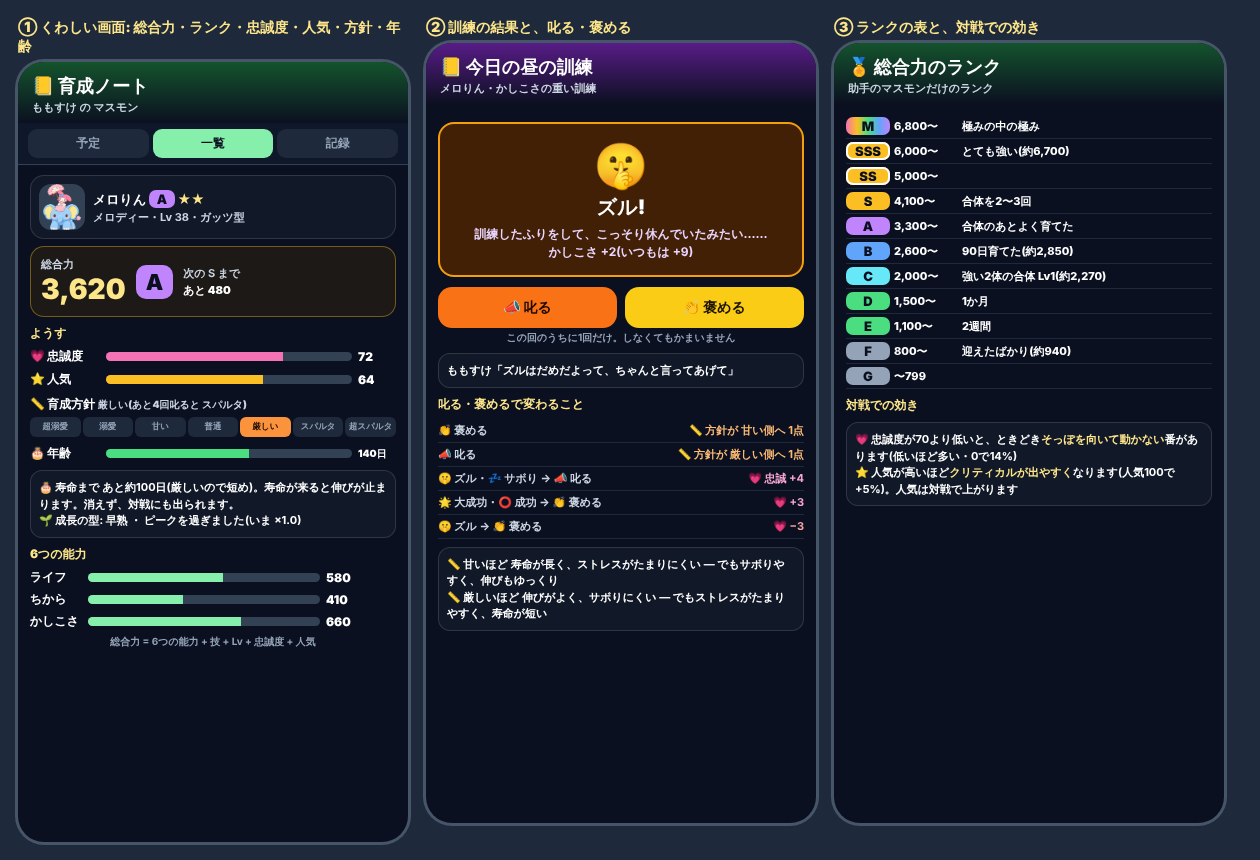
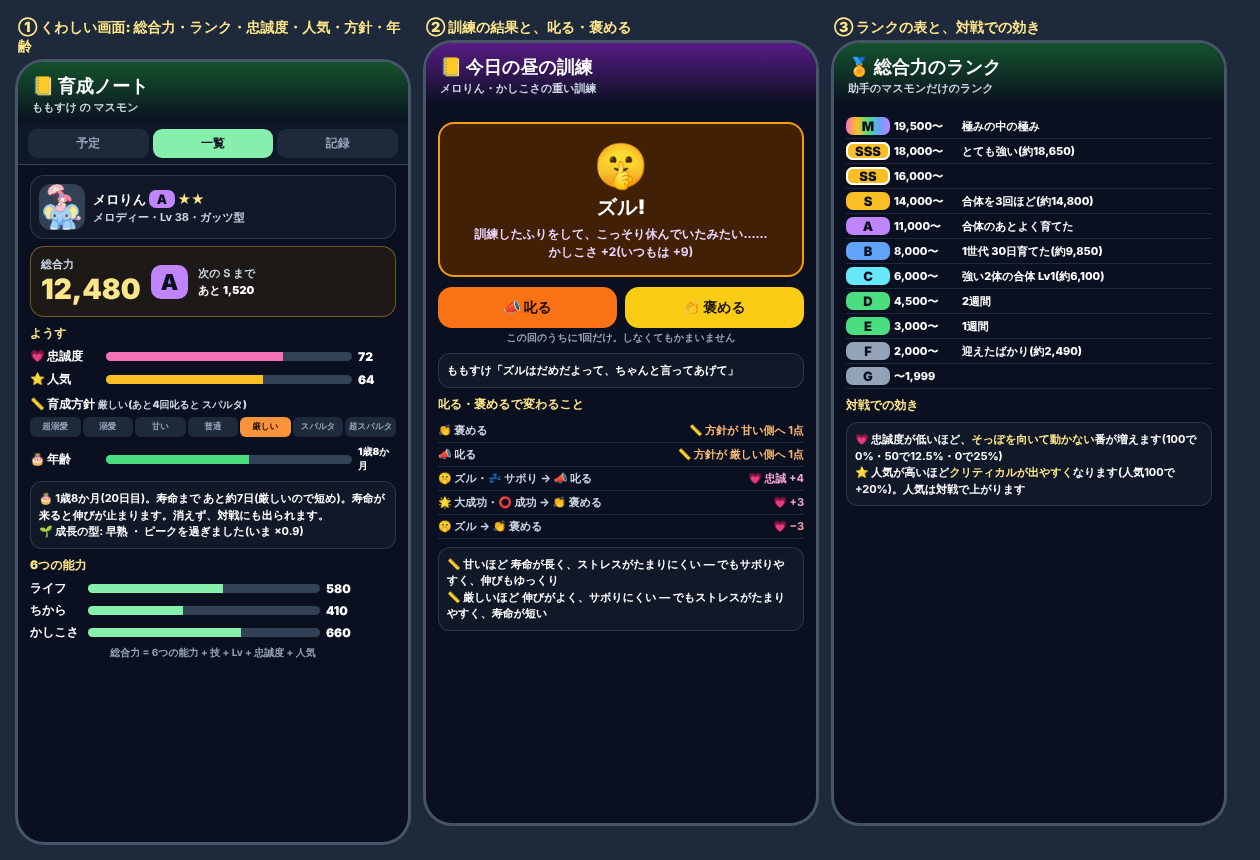
総合力・忠誠度・寿命などの案 第3版(S≈14000・M≈20000・寿命約30日・育ちの速さの見直し)と止め絵
Claude-Session: https://claude.ai/code/session_0113GBaCDsjiy9piuk6yeu9u

diff --git a/docs/progress/assistant-peer/masmon-plan/mock-power.html b/docs/progress/assistant-peer/masmon-plan/mock-power.html
@@ -62,14 +62,14 @@
 <div class="tabs"><div class="tab">予定</div><div class="tab on">一覧</div><div class="tab">記録</div></div>
 <div class="bd">
 <div class="mon"><img class="th" src="../../../../monster-hero/images/monster-thumbs/melody.png"><div style="flex:1"><div class="nm">メロりん <span class="rk rA">A</span> <span style="color:#fde68a">★★</span></div><div class="mi">メロディー・Lv 38・ガッツ型</div></div></div>
-<div class="big"><div><div style="font-size:11px;font-weight:900;color:#cbd5e1">総合力</div><div class="n">3,620</div></div><span class="rk rA">A</span><div style="font-size:11px;font-weight:700;color:#cbd5e1;line-height:1.5">次の S まで<br><b style="color:#fff">あと 480</b></div></div>
+<div class="big"><div><div style="font-size:11px;font-weight:900;color:#cbd5e1">総合力</div><div class="n">12,480</div></div><span class="rk rA">A</span><div style="font-size:11px;font-weight:700;color:#cbd5e1;line-height:1.5">次の S まで<br><b style="color:#fff">あと 1,520</b></div></div>
 <div class="sec">ようす</div>
 <div class="meter"><span>💗 忠誠度</span><div class="bar lo"><i style="width:72%"></i></div><span>72</span></div>
 <div class="meter"><span>⭐ 人気</span><div class="bar po"><i style="width:64%"></i></div><span>64</span></div>
 <div style="font-size:12px;font-weight:900;margin-top:8px">📏 育成方針 <small style="color:#cbd5e1">厳しい(あと4回叱ると スパルタ)</small></div>
 <div class="pol"><span>超溺愛</span><span>溺愛</span><span>甘い</span><span>普通</span><span class="on">厳しい</span><span>スパルタ</span><span>超スパルタ</span></div>
-<div class="meter" style="margin-top:8px"><span>🎂 年齢</span><div class="bar ag"><i style="width:58%"></i></div><span style="font-size:10px">140日</span></div>
-<div class="box">🎂 寿命まで あと約100日(厳しいので短め)。寿命が来ると伸びが止まります。消えず、対戦にも出られます。<br>🌱 成長の型: 早熟 ・ ピークを過ぎました(いま ×1.0)</div>
+<div class="meter" style="margin-top:8px"><span>🎂 年齢</span><div class="bar ag"><i style="width:58%"></i></div><span style="font-size:10px">1歳8か月</span></div>
+<div class="box">🎂 1歳8か月(20日目)。寿命まで あと約7日(厳しいので短め)。寿命が来ると伸びが止まります。消えず、対戦にも出られます。<br>🌱 成長の型: 早熟 ・ ピークを過ぎました(いま ×0.9)</div>
 <div class="sec">6つの能力</div>
 <div class="st"><span>ライフ</span><div class="bar"><i style="width:58%"></i></div><span>580</span></div>
 <div class="st"><span>ちから</span><div class="bar"><i style="width:41%"></i></div><span>410</span></div>
@@ -96,19 +96,19 @@
 <div><p class="cap">③ ランクの表と、対戦での効き</p><div class="ph">
 <div class="hd"><h2>🏅 総合力のランク</h2><div class="s">助手のマスモンだけのランク</div></div>
 <div class="bd">
-<div class="rt"><span class="rk rM">M</span><span>6,800〜</span><span>極みの中の極み</span></div>
-<div class="rt"><span class="rk rSSS">SSS</span><span>6,000〜</span><span>とても強い(約6,700)</span></div>
-<div class="rt"><span class="rk rSS">SS</span><span>5,000〜</span><span></span></div>
-<div class="rt"><span class="rk rS">S</span><span>4,100〜</span><span>合体を2〜3回</span></div>
-<div class="rt"><span class="rk rA">A</span><span>3,300〜</span><span>合体のあとよく育てた</span></div>
-<div class="rt"><span class="rk rB">B</span><span>2,600〜</span><span>90日育てた(約2,850)</span></div>
-<div class="rt"><span class="rk rC">C</span><span>2,000〜</span><span>強い2体の合体 Lv1(約2,270)</span></div>
-<div class="rt"><span class="rk rD">D</span><span>1,500〜</span><span>1か月</span></div>
-<div class="rt"><span class="rk rD">E</span><span>1,100〜</span><span>2週間</span></div>
-<div class="rt"><span class="rk rF">F</span><span>800〜</span><span>迎えたばかり(約940)</span></div>
-<div class="rt"><span class="rk rG">G</span><span>〜799</span><span></span></div>
+<div class="rt"><span class="rk rM">M</span><span>19,500〜</span><span>極みの中の極み</span></div>
+<div class="rt"><span class="rk rSSS">SSS</span><span>18,000〜</span><span>とても強い(約18,650)</span></div>
+<div class="rt"><span class="rk rSS">SS</span><span>16,000〜</span><span></span></div>
+<div class="rt"><span class="rk rS">S</span><span>14,000〜</span><span>合体を3回ほど(約14,800)</span></div>
+<div class="rt"><span class="rk rA">A</span><span>11,000〜</span><span>合体のあとよく育てた</span></div>
+<div class="rt"><span class="rk rB">B</span><span>8,000〜</span><span>1世代 30日育てた(約9,850)</span></div>
+<div class="rt"><span class="rk rC">C</span><span>6,000〜</span><span>強い2体の合体 Lv1(約6,100)</span></div>
+<div class="rt"><span class="rk rD">D</span><span>4,500〜</span><span>2週間</span></div>
+<div class="rt"><span class="rk rD">E</span><span>3,000〜</span><span>1週間</span></div>
+<div class="rt"><span class="rk rF">F</span><span>2,000〜</span><span>迎えたばかり(約2,490)</span></div>
+<div class="rt"><span class="rk rG">G</span><span>〜1,999</span><span></span></div>
 <div class="sec">対戦での効き</div>
-<div class="box">💗 忠誠度が70より低いと、ときどき<b style="color:#fde68a">そっぽを向いて動かない</b>番があります(低いほど多い・0で14%)<br>⭐ 人気が高いほど<b style="color:#fde68a">クリティカルが出やすく</b>なります(人気100で +5%)。人気は対戦で上がります</div>
+<div class="box">💗 忠誠度が低いほど、<b style="color:#fde68a">そっぽを向いて動かない</b>番が増えます(100で0%・50で12.5%・0で25%)<br>⭐ 人気が高いほど<b style="color:#fde68a">クリティカルが出やすく</b>なります(人気100で +20%)。人気は対戦で上がります</div>
 </div></div></div>
 
 </div></body></html>

diff --git a/docs/progress/assistant-peer/masmon-plan/POWER.md b/docs/progress/assistant-peer/masmon-plan/POWER.md
@@ -1,164 +1,173 @@
-# 助手のマスモンの「総合力・ランク」「忠誠度・人気」「育成方針」「年齢・寿命・成長の型」と、トレーニングの結果・叱る・褒める(案・第2版)
+# 助手のマスモンの「総合力・ランク」「忠誠度・人気」「育成方針」「年齢・寿命・成長の型」と、トレーニングの結果・叱る・褒める(案・第3版)
 
-キズナ 2026-11-12。第1版(おすすめ案)への社長の答え(窓口経由)を入れて作り直した。作る前にもう一度窓口へ見せる。
+キズナ 2026-11-12。第2版への社長の答え(窓口経由・台帳)を入れた。**作る前にもう一度窓口へ見せる**。
 
 - 参考はモンスターファームシリーズ・LINEモンスターファームの**仕組みの考え方だけ**(画面・用語・絵は写さない)
 - 対象は**助手のマスモンだけ**。プレイヤーのモンスターの総合力・強さは変えない
-- 止め絵: `mock-power.png`(元は `mock-power.html`・スマホ縦3画面: くわしい画面/訓練の結果と叱る・褒める/ランクの表と対戦での効き)
+- 止め絵: `mock-power.png`(くわしい画面/訓練の結果と叱る・褒める/ランクの表と対戦での効き)・`mock-growth.png`(成長の型の曲線・寿命30日の目盛り)
 
-社長の答え(第1版から変わった所):
-1. 総合力に**忠誠度と人気も入れる**
-2. ランクは **G・F・E・D・C・B・A・S・SS・SSS・M の11段**(M が最上位)
-3. 忠誠度が低いと、**対戦でたまに行動できないターン**が出る(低いほど起きやすい)。サボり・家出・ズル・大成功にも第1版どおり効く
-4. 人気は**バトル(対戦)で上がる**。高いと**クリティカル率が上がる**
-5. 育成方針は7段「超溺愛・溺愛・甘い・普通・厳しい・スパルタ・超スパルタ」(型とは別)。褒める → 甘い側、叱る → 厳しい側。甘いほど寿命が長くストレスをためにくいがサボりやすく効率が悪い。厳しい側はその逆
-6. **年齢と寿命を入れる**。年齢で訓練の効率が変わり、ピークの時期はかなり上がる。マスモンごとに成長の型(超早熟・早熟・普通・晩成・超晩成・持続)があり、型でピークの時期と長さが決まる(追加の答え)。寿命の長さは育成方針で変わる。寿命が来たら**伸びが止まるだけ**(消えない・冬眠にもならない・対戦に出られる)。合体した子は年齢0から
+第2版から変わった所(社長の答え):
+1. 総合力の数字を大きく: **S ≈ 14,000・M ≈ 20,000**(LINEモンスターファームの感じ)
+2. 忠誠度の「動かない番」: **忠誠100で0% 〜 忠誠0で約25%**(全域でなめらかに)
+3. 人気100でクリティカル率 **+20%**
+4. 寿命: **普通の方針で約30日**(超溺愛 約40 〜 超スパルタ 約20日)。ピークの日数も一緒に縮む
+5. 年齢は **1日 = 1か月** で「◯歳◯か月」(30日で2歳6か月)。冬眠中は進まない
+6. 成長の型: 1体ずつ迎えたときに決まる(種類ごとに出やすい型)・合体では主の型を受け継ぐ
+7. ピークの高さ: ×1.5〜1.7(持続は ×1.15 がほぼずっと)
+8. 寿命が30日になるので、**育ちの速さ(1日の伸び・育成ノートの段の日数)を見直す**(→ 7章)
 
 ## 1. 総合力
 
 ```
-総合力 = 6能力の合計 + 技ごとに(20 + 熟練 ÷ 5) + Lv × 3 + 忠誠度 × 3 + 人気 × 3
+総合力 = 6能力の合計 × 2.5 + 技ごとに(100 + 熟練) + Lv × 15 + 忠誠度 × 10 + 人気 × 10
 ```
 
 | もと | はば | 最大 |
 | --- | --- | --- |
-| 6能力の合計 | 300〜5994 | 5994 |
-| 技(8つまで) | 1つ 20〜40 | 320 |
-| Lv | ×3 | 297 |
-| 忠誠度(0〜100) | ×3 | 300 |
-| 人気(0〜100) | ×3 | 300 |
-| **合計** | | **7211** |
+| 6能力の合計 × 2.5 | 750〜14,985 | 14,985 |
+| 技(8つまで)| 1つ 100〜200 | 1,600 |
+| Lv × 15 | | 1,485 |
+| 忠誠度(0〜100)× 10 | | 1,000 |
+| 人気(0〜100)× 10 | | 1,000 |
+| **合計** | | **20,070** |
 
+- 6能力が全体の4分の3。技・Lv・忠誠度・人気は合わせて4分の1(育て方・関わり方で差がつく分)
 - 保存しない(毎回その場で出す)。古い形の子(6能力が無い子)は「—」
-- 出す所: 育成ノートの一覧(名前の横にランクの字)・くわしい画面(大きく)・冬眠の一覧・合体の見通し(前 → 後)・フレンドが見る形
 
 ## 2. ランク(11段)
 
 | ランク | 総合力 | ここに来る子(目安) |
 | --- | --- | --- |
-| G | 〜799 | |
-| F | 800〜 | **モッチー Lv1 を迎えたばかり: 約 940**(6能力 750・技1つ 20・Lv 3・忠誠50 → 150・人気0) |
-| E | 1100〜 | 2週間ほど育てた |
-| D | 1500〜 | 1か月ほど育てた |
-| C | 2000〜 | **強い2体の合体の Lv1: 約 2,270**(6能力 約1,900・技2つ・忠誠72・人気32) |
-| B | 2600〜 | **90日育てた子: 約 2,850**(6能力 約2,300・技4つ・Lv30・忠誠70・人気40) |
-| A | 3300〜 | 合体1回のあと、よく育てた |
-| S | 4100〜 | 合体を2〜3回重ねた |
-| SS | 5000〜 | |
-| SSS | 6000〜 | **とても強い子: 約 6,700**(6能力 約5,500・技8つ熟練100・Lv99・忠誠100・人気100) |
-| M | 6800〜 | 6能力がほぼ極み(合計5,600以上)+ 忠誠・人気ともに高い。全部最大で 7,211 |
+| G | 〜1,999 | |
+| F | 2,000〜 | **モッチー Lv1 を迎えたばかり: 約 2,490**(6能力 750・技1つ・忠誠50・人気0) |
+| E | 3,000〜 | 1週間ほど育てた |
+| D | 4,500〜 | 2週間ほど |
+| C | 6,000〜 | **強い2体の合体の Lv1: 約 6,100**(6能力 約1,900・技2つ・忠誠72・人気32) |
+| B | 8,000〜 | **1世代(30日)しっかり育てた子: 約 9,850**(6能力 約3,050・技4つ・Lv35・忠誠70・人気40) |
+| A | 11,000〜 | 合体1〜2回のあと、よく育てた |
+| S | 14,000〜 | **合体を3回ほど重ねて育てた子: 約 14,800**(6能力 約4,600・技6つ・Lv45・忠誠85・人気70) |
+| SS | 16,000〜 | |
+| SSS | 18,000〜 | **とても強い子: 約 18,650**(6能力 約5,600・技8つ熟練100・Lv70・忠誠100・人気100) |
+| M | 19,500〜 | 6能力がほぼ極み+技・忠誠・人気もほぼ最大(全部最大で 20,070) |
 
 - 段の色: G・F 灰 / E・D 緑 / C 水色 / B 青 / A 紫 / S 金 / SS・SSS 金の枠 / M 虹の枠
-- 合体の見通しに「総合力 3,420(A)→ 2,270(C)・Lv1」と、寿命までの見込みを並べる
+- S まではだいたい **3〜4世代(3〜4か月)**、M は合体を重ね、ピークをうまく使い、忠誠と人気も上げきった子だけ
 
 ## 3. 忠誠度(0〜100・はじめ50)
 
 上がり下がりは第1版のまま(合う叱る/褒めるで上がる・ズルを褒める/成功を叱る/家出で下がる・何も関わらない日が7日続くと −1/日)。
 
-効くもの:
-- **対戦で行動できないターン**(新): 忠誠度70未満の子は、自分の番ごとに **(70 − 忠誠度) × 0.2%** で「そっぽを向いて動かない」(何もせずガッツだけたまる)。忠誠50で 4%・30で 8%・0で 14%。70以上は起きない
-- サボり・家出・ズル・大成功(第1版どおり): サボり・家出は今の式 ×(1.5 − 忠誠 ÷ 100)/ズルは忠誠50未満で (50 − 忠誠) ÷ 5 %(最大10%)/忠誠80以上で大成功 +3%
+- **対戦で動かない番**: 自分の番ごとに **(100 − 忠誠度) × 0.25%** で「そっぽを向いて動かない」(何もせずガッツだけたまる)。忠誠100で0%・80で5%・50で12.5%・0で25%
+- サボり・家出: 今の式 ×(1.5 − 忠誠 ÷ 100)/ズル: 忠誠50未満で (50 − 忠誠) ÷ 5 %(最大10%)/忠誠80以上で大成功 +3%
 
 ## 4. 人気(0〜100・はじめ0)
 
-- **上がる(バトルだけ)**: フレンド対戦で勝つ +2・負けても +0.5/助手どうしの対戦で勝つ +1・負け +0.2/修行の練習試合(👀)で勝つ +0.2
-- 下がる: 14日、どの対戦にも出ないと 1日 −1(0まで)
-- **効くもの**: 対戦の**クリティカル率 + 人気 ÷ 20 %**(人気100で +5%。技ごとの率に足す・技の上限30%は今のまま)/名前の横の印 ★(30)★★(60)★★★(90)
+- 上がる(対戦だけ): フレンド対戦で勝つ +2・負け +0.5/助手どうしの対戦で勝つ +1・負け +0.2/修行の練習試合(👀)で勝つ +0.2
+- 下がる: 7日、どの対戦にも出ないと 1日 −1(寿命が30日になったので14日→7日)
+- **クリティカル率 + 人気 ÷ 5 %**(人気100で +20%)。技ごとの率に足す。上限は「技の上限30% + 人気の分」(最大50%)
+- 名前の横の印 ★(30)★★(60)★★★(90)
 
 ## 5. 育成方針(7段・型とは別)
 
 | 方針 | 寿命 | ストレスのたまり | 訓練の伸び | サボりの起きやすさ |
 | --- | --- | --- | --- | --- |
-| 超溺愛 | 360日 | ×0.6 | ×0.80 | ×2.0 |
-| 溺愛 | 330日 | ×0.75 | ×0.87 | ×1.6 |
-| 甘い | 300日 | ×0.9 | ×0.94 | ×1.3 |
-| **普通**(はじめ) | 270日 | ×1.0 | ×1.00 | ×1.0 |
-| 厳しい | 240日 | ×1.15 | ×1.06 | ×0.8 |
-| スパルタ | 210日 | ×1.3 | ×1.12 | ×0.6 |
-| 超スパルタ | 180日 | ×1.5 | ×1.18 | ×0.4 |
+| 超溺愛 | 40日(3歳4か月) | ×0.6 | ×0.80 | ×2.0 |
+| 溺愛 | 37日 | ×0.75 | ×0.87 | ×1.6 |
+| 甘い | 33日 | ×0.9 | ×0.94 | ×1.3 |
+| **普通**(はじめ) | **30日(2歳6か月)** | ×1.0 | ×1.00 | ×1.0 |
+| 厳しい | 27日 | ×1.15 | ×1.06 | ×0.8 |
+| スパルタ | 23日 | ×1.3 | ×1.12 | ×0.6 |
+| 超スパルタ | 20日(1歳8か月) | ×1.5 | ×1.18 | ×0.4 |
 
-- 動き方: 褒めるごとに甘い側へ1点、叱るごとに厳しい側へ1点。**10点たまると1段動く**(逆へ押すと点が戻る)。くわしい画面に「普通 ←●○○○○→ 厳しい(あと4回で厳しい)」と出す
-- 合う・合わないに関係なく方針は動く(叱るのが正しい場面でも、叱り続ければ厳しい側へ寄る)。忠誠度は第1版どおり、合う方を選ぶと上がる
-- 叱りすぎ(1日3回以上)のストレス +5 は第1版どおり
-- 合体した子: 方針は主のまま(点は0から)
+- 褒めるごとに甘い側へ1点、叱るごとに厳しい側へ1点。**10点たまると1段動く**(逆へ押すと点が戻る)
+- 叱りすぎ(1日3回以上)はストレス +5。合体した子は主の段(点は0から)
 
-## 6. 年齢と寿命
+## 6. 年齢・寿命・成長の型
 
 ```
-年齢 = 育てた日数(その子が来てから。冬眠中は進まない)。寿命 = 育成方針の表の日数
-寿命の数え方: 毎日、今の方針の「1日ぶん」を足す(寿命360日の方針なら 1/360)。合計が1になったら寿命
+年齢 = 育てた日数(冬眠中は進まない)。1日 = 1か月 として「◯歳◯か月」で見せる(30日 → 2歳6か月)
+寿命の進み = 毎日、今の方針の「1日ぶん」を足す(普通なら 1/30)。合計が1になったら寿命
 ```
 
-- 方針を途中で変えても、それまでの分はそのまま(甘くすれば残りが延び、厳しくすれば縮む)
-- **寿命が来たら、伸びが止まるだけ**: 訓練・修行で6能力と技の熟練が上がらなくなる。消えない・冬眠にもならない・対戦には今のまま出られる・眠らせる/起こす/合体の素材にも使える
-- 寿命が近い(残り30日)と、くわしい画面とおしゃべりで助手が知らせる(「そろそろ伸びが止まりそう。合体も考えてみる?」)
-- **合体した子は年齢0・寿命の数えも0から**(合体のやりがい: 伸びが止まった子を、強い初期値から育て直す)
-- 前からいる子: 年齢は「育成が始まった日」から数えるが、**公開の日を0日として数え始める**(公開した日に寿命が来ている子が出ないように)
+- 方針を途中で変えても、それまでの進みはそのまま(甘くすれば残りが延び、厳しくすれば縮む)
+- **寿命が来たら伸びが止まるだけ**: 訓練・修行で6能力と技の熟練が上がらない。消えない・冬眠にもならない・対戦に出られる・眠らせる/起こす/合体の素材にも使える
+- 寿命の残り5日で、くわしい画面とおしゃべりで助手が知らせる(「そろそろ伸びが止まりそう。合体も考えてみる?」)
+- 合体した子は年齢0・寿命の進みも0から(もう一度ピークを迎えられる)
+- 前からいる子: 公開の日を0日として数え始める(公開した日に寿命が来ている子が出ないように)
 
-### 成長の型と、年齢でのトレーニング効率(「育ち盛り」をこれに置きかえる・窓口経由の社長の追加)
+### 成長の型(決まった: 1体ずつ迎えたときに決まる・種類ごとに出やすい型・合体では主の型を受け継ぐ)
 
-マスモンごとに**成長の型**があり、年齢で訓練・修行の伸び(効率)が変わる。**ピークの時期は伸びがかなり上がる**。
-年齢は「寿命のうち何割まで来たか」で数える(育成方針で寿命が延び縮みすると、ピークの日数も一緒に延び縮みする)。
+年齢は「寿命のうち何割まで来たか」で数える。ピークの高さは決まった表のまま(×1.5〜1.7・持続は ×1.15)。
 
-| 型 | 0〜1割 | 1〜2 | 2〜3 | 3〜4 | 4〜5 | 5〜6 | 6〜7 | 7〜8 | 8〜9 | 9〜10割 | ピーク(普通の方針・寿命270日で) |
+| 型 | 0〜1割 | 1〜2 | 2〜3 | 3〜4 | 4〜5 | 5〜6 | 6〜7 | 7〜8 | 8〜9 | 9〜10割 | ピーク(普通の方針・寿命30日) |
 | --- | --- | --- | --- | --- | --- | --- | --- | --- | --- | --- | --- |
-| 超早熟 | ×1.3 | **×1.7** | **×1.7** | ×1.4 | ×1.1 | ×0.9 | ×0.8 | ×0.7 | ×0.7 | ×0.6 | 27〜81日・高くて短い |
-| 早熟 | ×1.1 | ×1.4 | **×1.6** | **×1.6** | ×1.3 | ×1.0 | ×0.9 | ×0.8 | ×0.7 | ×0.6 | 54〜108日 |
-| 普通 | ×0.9 | ×1.0 | ×1.2 | ×1.4 | **×1.5** | ×1.4 | ×1.2 | ×1.0 | ×0.8 | ×0.7 | 108〜162日 |
-| 晩成 | ×0.7 | ×0.8 | ×0.9 | ×1.0 | ×1.2 | ×1.4 | **×1.5** | **×1.5** | ×1.2 | ×0.9 | 162〜216日 |
-| 超晩成 | ×0.7 | ×0.8 | ×0.8 | ×0.9 | ×1.0 | ×1.1 | ×1.3 | ×1.5 | **×1.6** | ×1.4 | 216〜243日・寿命の直前 |
-| 持続 | ×1.0 | ×1.1 | ×1.15 | ×1.15 | ×1.15 | ×1.15 | ×1.15 | ×1.15 | ×1.1 | ×1.0 | ピークは低いがずっと続く |
+| 超早熟 | ×1.3 | **×1.7** | **×1.7** | ×1.4 | ×1.1 | ×0.9 | ×0.8 | ×0.7 | ×0.7 | ×0.6 | 4〜9日目(0歳3か月〜0歳9か月) |
+| 早熟 | ×1.1 | ×1.4 | **×1.6** | **×1.6** | ×1.3 | ×1.0 | ×0.9 | ×0.8 | ×0.7 | ×0.6 | 7〜12日目 |
+| 普通 | ×0.9 | ×1.0 | ×1.2 | ×1.4 | **×1.5** | ×1.4 | ×1.2 | ×1.0 | ×0.8 | ×0.7 | 13〜15日目(1歳前後) |
+| 晩成 | ×0.7 | ×0.8 | ×0.9 | ×1.0 | ×1.2 | ×1.4 | **×1.5** | **×1.5** | ×1.2 | ×0.9 | 19〜24日目 |
+| 超晩成 | ×0.7 | ×0.8 | ×0.8 | ×0.9 | ×1.0 | ×1.1 | ×1.3 | ×1.5 | **×1.6** | ×1.4 | 25〜27日目(寿命の直前) |
+| 持続 | ×1.0 | ×1.1 | ×1.15 | ×1.15 | ×1.15 | ×1.15 | ×1.15 | ×1.15 | ×1.1 | ×1.0 | ほぼずっと ×1.15 |
 
-- 絵: `mock-growth.png`(型ごとの曲線・横が寿命の割合)
-- どの型も、寿命の全部を通した伸びの合計はほぼ同じ(平均 ×1.1)。**ちがうのは「いつ伸びるか」**だけ。早熟は早くピークが来て早く合体へ回せる、晩成は長く付き合うほど報われる
-- 掛け算は、育成方針の伸び・忠誠度の結果などとかけ合わせる。寿命を過ぎたら伸びは止まる(×0)
-- **寿命とのつながり**: 寿命は表の右端(10割)。超晩成はピークのすぐあとに寿命が来る/超早熟はピークのあと長い「落ち着き」の期間がある。甘い方針で寿命を延ばすと、ピークの日数も長くなる(ただし方針の伸び ×0.94 などがかかる)
-- **合体とのつながり**: 合体した子は年齢0から → **もう一度ピークを迎えられる**。主の型を受け継ぐ(聞くこと 5)ので、早熟の子は合体の間をあけずに回しやすく、晩成の子は1体を長く育てるほど強くなる
-- くわしい画面: 「🌱 成長の型: 早熟 ・ いまピーク(×1.6・あと20日)」のように出し、曲線の小さな絵の上に「いまここ」の印
-- 前からいる子: 型は公開の日に1度だけ決め(同じ種なら同じ結果)、年齢は公開の日を0日として数える
+- どの型も寿命を通した伸びの合計はほぼ同じ(平均 ×1.1)。ちがうのは「いつ伸びるか」
+- 出やすい型(案): 種類の伸びやすさ(AMG_APT)で決める。A が多い種類は早熟寄り・C 以下が多い種類は晩成寄り・ほかは普通寄り。どの種類でも6つの型すべてが出る(出やすさが変わるだけ)
+- くわしい画面: 「🌱 早熟 ・ いまピーク(×1.6・あと3日)」と、曲線の小さな絵に「いまここ」の印
 
-## 7. 対戦での計算(masmon-pvp・フレンド対戦にも効く)
+## 7. 育ちの速さの見直し(寿命 約30日に合わせる)
 
-- 「行動できないターン」と「クリティカル率」は、対戦の計算の本体 `monster-hero/data/assistant-masmon-battle.js` に入れる(端末とサーバが同じ物を使う。サーバの写し `supabase/functions/masmon-pvp/engine.js` は道具で作り直す)。使ってよい計算(+−×÷・floor など)だけで書く
+いまの育成は「1か月で6能力の合計 +500 くらい(計画あり)」の速さで、寿命270日の前提だった。寿命30日だと1世代でほとんど育たないので、**1世代(30日)で合計 +2,300 くらい**(F → B)になるように上げる。
+
+| 項目 | いま | 第3版の案 | わけ |
+| --- | --- | --- | --- |
+| 1回の訓練・修行の伸び | — | **×4**(式は今のまま、最後に4倍) | 30日で +2,300(いまの試算 +517 × 4 × 型の平均1.1) |
+| 1体1日の伸びの上限(まかせる/見に来た日/計画) | 15 / 20 / 20 | **60 / 80 / 80** | 伸びと同じ4倍 |
+| 育成の経験(Lv の上がり方) | — | **×4** | 1世代で Lv35 くらい(総合力の Lv の分) |
+| M/B管理のチケット(トレ +3〜6・重トレ 主 +8〜12 など) | — | **×4** | 毎日の伸びとのつり合いを今と同じに |
+| 6能力の上限 | 999 | 999(今のまま) | |
+| 育成ノートの段(計画できる数が増える日) | 延べ 7・21・42・70日 | **延べ 5・12・20・30日** | 1世代(30日)のうちに5体まで計画できるように。合体で回す前提 |
+| 冬眠の箱の数 | 10〜30体 | 今のまま | 合体の材料をためる場所として足りる |
+| 合体の上乗せ | 平均999で +200 | 今のまま | 4世代目くらいで S に届くつり合い |
+| masmon-pvp の見張り(1日の伸び) | 40 | **250** | 計画80 × ピーク1.7 × 方針1.18 ≒ 160 + チケット ≒ 250。Lv の見張りも4倍 |
+
+- 伸びの4倍は、**公開(印を真)にした日から**かける。それまでに育った分はそのまま(下げない・⑦)
+- けが・病気・家出の長さ(2〜3日)は、寿命30日だと重い → **1日(3回)** に縮める案
+- 試算は作るときに `assistant-masmon-note-check.js --sim 30` を新しい倍率で回して、+2,300 前後になっているかを見せる
+
+## 8. 対戦での計算(masmon-pvp・フレンド対戦にも効く)
+
+- 「動かない番」と「クリティカル率」は、対戦の計算の本体 `monster-hero/data/assistant-masmon-battle.js` に入れる(端末とサーバが同じ物を使う。サーバの写し `engine.js` は道具で作り直す)。使ってよい計算(+−×÷・floor など)だけで書く
 - 編成の1体ごとに `loy`(忠誠度)・`pop`(人気)を足す。どちらも無ければ「忠誠100・人気0」として計算する(今の対戦の結果は変わらない)
-- サーバ(`core.js` の `parseTeam`)の確かめ:
-  - 忠誠度: 0〜100 の整数だけ。低いほど不利なので、そのまま受け取る
-  - 人気: 有利になるので、**サーバが自分の戦績の表から出す**(フレンド対戦の勝ち・負けの数から同じ式で)。端末が送った値は使わない。助手どうしの対戦・練習試合の分はフレンド対戦には入れない
-- 印 `assistantMasmonBond` が偽のあいだは、端末は `loy`・`pop` を送らない(今のまま)
-- 誰が作るか: 計算の本体と `core.js` の確かめ・配り直しは対戦の受け持ち(masmon-pvp を作った部)とすり合わせる。窓口が決める。SQL が要るなら(戦績の表を読むだけなら不要の見込み)本文を窓口へ
+- サーバの確かめ: 忠誠度は 0〜100 の整数ならそのまま受け取る(低いほど不利)/人気は有利なので、端末の値を使わず、サーバが自分の戦績の表から同じ式で出す
+- `DAILY_GROWTH_CAP` 40 → 250 と Lv の見張りの変更も同じ配り直しで
+- 作る部と配り直しは窓口が決める
 
-## 8. トレーニング・修行の結果と、叱る・褒める(第1版のまま)
+## 9. トレーニング・修行の結果と、叱る・褒める(第1版のまま)
 
 | 結果 | 起きやすさ(目安) | 中身 |
 | --- | --- | --- |
 | 🌟 大成功 | 8%(忠誠80以上 11%) | 伸び ×1.5・ストレス −3 |
 | ⭕ 成功 | 残り | 今の伸び |
-| ❌ 失敗 | 今の失敗の率のまま | 伸び ×0.3(今と同じ) |
-| 🤫 ズル | 忠誠50未満で (50−忠誠)÷5 %・最大10% | 訓練したふり。伸び ×0.2・疲れは増えない |
+| ❌ 失敗 | 今の失敗の率のまま | 伸び ×0.3 |
+| 🤫 ズル | 忠誠50未満で (50−忠誠)÷5 %・最大10% | 伸び ×0.2・疲れは増えない |
 | 💤 サボり | 育成ノートの式 × 忠誠の掛け算 × 方針の掛け算 | 伸びなし・疲れ −5・ストレス −5 |
 
 - 結果のあと、その回のうちに1回だけ「📣 叱る」「👏 褒める」(しなくてもよい)。忠誠度(合う方で上がる)と育成方針(褒める → 甘い側・叱る → 厳しい側)が動く
-- けが・病気・家出(育成ノート第4版の表)はそのまま。ストレスのたまり方に方針の掛け算が入る
 
 ## 保存(CLAUDE.md ⑦)
 
-- 新しいキー `mh_assistant_masmon_bond_v1` だけを足す: `{ v:1, mons:{ "<aid>:<slot>:<monster>": { loy:0〜100, pop:0〜100, pol:-3〜3, pp:-9〜9(方針の点), gt:成長の型(0〜5), age:育てた日数, life:寿命の進み(0〜1・千分率の整数), last:日, pend:{ s:回, r:結果 } } }, start:公開の日 }`
-- 読めない値は既定(忠誠50・人気0・方針 普通・年齢0)。総合力・ランクは保存しない
-- 冬眠の箱へは写しとして入れる(冬眠の行に `bond` を足す。既存の項目の意味は変えない)。合体の子は 忠誠=主の値・人気=2体の高い方の半分・方針=主の段・成長の型=主の型(聞くこと 5)・年齢と寿命は0
-- 結果の種類は今の育成の記録(`log` の `a`)に新しい値を足すだけ
+- 新しいキー `mh_assistant_masmon_bond_v1` だけを足す: `{ v:1, start:公開の日, mons:{ "<aid>:<slot>:<monster>": { loy, pop, pol:-3〜3, pp:-9〜9, gt:成長の型 0〜5, age:育てた日数, life:寿命の進み(千分率), last:日, pend:{ s:回, r:結果 } } } }`
+- 読めない値は既定(忠誠50・人気0・方針 普通・型はその子の種から1度だけ・年齢0)
+- 冬眠の箱へは写しとして入れる(冬眠の行に `bond` を足す)。合体の子は 忠誠=主・人気=2体の高い方の半分・方針=主・型=主・年齢と寿命は0
+- 伸びの4倍・段の日数は数字の置きかえだけ(保存の形は変えない)。段の日数を縮めても、すでに届いた段は下げない
 
 ## 聞くこと(おすすめが先頭)
 
-1. **ランクの区切り**: ①(推奨)上の表のまま(Lv1=F・合体Lv1=C・90日=B・とても強い=SSS) ②もっと上がりにくく(全部 1.2倍・90日で C) ③もっと上がりやすく(全部 0.85倍・90日で A)
-2. **行動できないターンの起きやすさ**: ①(推奨)忠誠70未満から・0で14% ②忠誠50未満から・0で20% ③忠誠80未満から・0で10%
-3. **人気のクリティカル**: ①(推奨)人気100で +5% ②人気100で +10% ③人気100で +3%
-4. **寿命の長さ**: ①(推奨)普通で270日(超溺愛360〜超スパルタ180) ②普通で180日(120〜240) ③普通で365日(270〜450)
-5. **成長の型の決め方**: ①(推奨)1体ずつ決まる(種類ごとに出やすい型がある・迎えたとき1回)・合体では主の型を受け継ぐ ②種類で決まる(同じ種類はみな同じ型)・合体でも変わらない ③1体ずつ決まり、合体のときに2体のどちらの型にするか選べる
-6. **ピークの高さ**: ①(推奨)上の表(ピーク ×1.5〜×1.7・持続は ×1.15) ②もっと高く(ピーク ×2.0 前後・ほかの時期は低め) ③おだやか(ピーク ×1.3 前後)
+1. **育ちの速さ**: ①(推奨)伸び・上限・経験・チケットをみな ×4(1世代で F → B) ②×3(1世代で F → C) ③×6(1世代で F → A・合体が早く回る)
+2. **育成ノートの段の日数**: ①(推奨)延べ 5・12・20・30日(1世代のうちに5体) ②今のまま 7・21・42・70日 ③延べ 3・7・14・21日
+3. **けが・病気・家出の長さ**: ①(推奨)どれも1日(3回)に縮める ②今のまま(2〜3日) ③半日(2回)
 
 ## 段取り(決まってから)
 
 1. 総合力・ランク(表示だけ・関数 `amgPowerOf`)→ 一覧・くわしい画面・冬眠・合体の見通し
-2. 忠誠度・人気・方針・年齢・成長の型・結果・叱る/褒める(新しいキー・印 `assistantMasmonBond` 偽)・検査(既定値・二重に数えない・寿命で伸びが止まる・プレイヤーのモンスターに効かない)
-3. 対戦の計算(行動できない・クリティカル)は対戦の受け持ちと(窓口が決める)。サーバの配り直しは窓口へ
+2. 忠誠度・人気・方針・年齢と寿命・成長の型・結果・叱る/褒める(新しいキー・印 `assistantMasmonBond` 偽)・育ちの速さ(同じ印で切り替え)・検査
+3. 対戦の計算と masmon-pvp の見張りの変更は対戦の受け持ちと(窓口が決める)。配り直しは窓口へ
 4. 止め絵と更新履歴・ヘルプ → ミハリ → 窓口 → 公開
